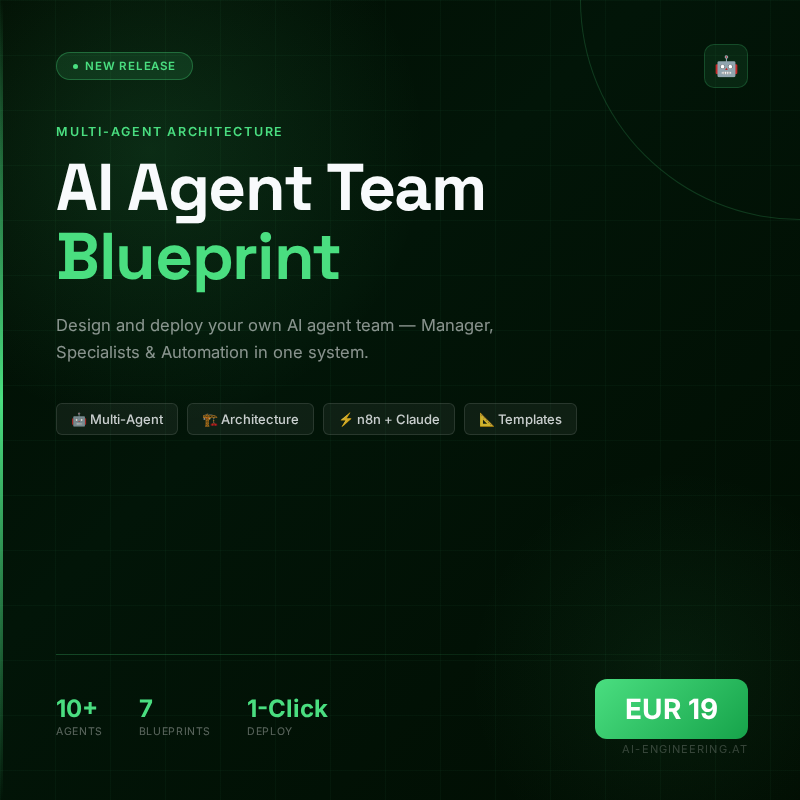
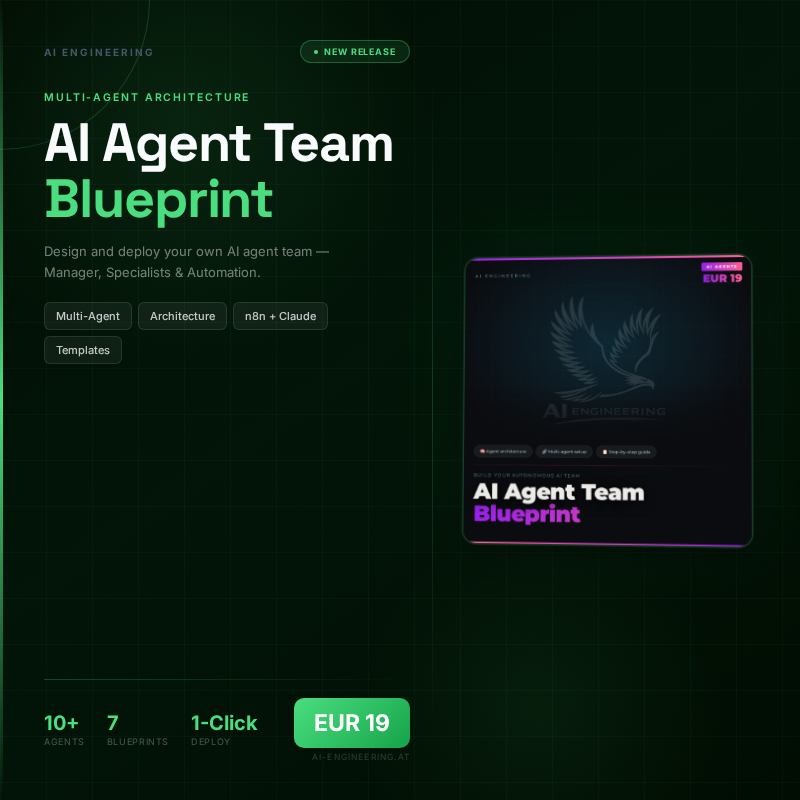
feat(covers): Add cover-generator v5 with product image showcase
- New gen_covers_v5.py: split layout (text left / product image right)
- Product thumbnail embedded as 3D floating card (290x290, perspective transform)
- Accent glow behind card, eagle watermark (opacity 0.07) in background
- All 7 covers regenerated: localai-playbook, n8n-starter-bundle,
  grafana-dashboard-pack, dsgvo-art30-bundle, homelab-mcp-bundle,
  ai-agent-blueprint, mcp-cheat-sheet
- SKILL.md updated: full v5 documentation, layout diagram, version history

diff --git a/tools/cover-generator/gen_covers_v5.py b/tools/cover-generator/gen_covers_v5.py
@@ -1,0 +1,222 @@
+#!/usr/bin/env python3
+"""
+Cover Generator v5 -- Product Image Showcase Design
+
+800x800 covers with product thumbnail as floating card on the right.
+
+Usage:
+  python3 gen_covers_v5.py                  # all 7 products
+  python3 gen_covers_v5.py localai-playbook  # single product
+  python3 gen_covers_v5.py --list            # list products + thumb status
+  python3 gen_covers_v5.py --dry-run         # HTML only, no screenshot
+"""
+import os, sys, base64, argparse
+from pathlib import Path
+from playwright.sync_api import sync_playwright
+
+OUTPUT_DIR = Path("/home/joe/cli_bridge/products/cover-templates")
+THUMB_DIR  = Path("/home/joe/cli_bridge/products/cover-templates")
+EAGLE_PATH = Path("/home/joe/Playbook01/landing-page/public/eagle-logo-inverted.png")
+
+PRODUCTS = [
+    {"id":"localai-playbook","accent":"#10B981","accent_dark":"#059669",
+     "gradient":"linear-gradient(145deg,#020817 0%,#0a1628 45%,#041a10 100%)",
+     "badge":"Bestseller 2025","eyebrow":"The Complete Guide",
+     "title":"Local <em>AI&nbsp;Stack</em><br>Playbook",
+     "subtitle":"Run your own AI infrastructure — fully private, zero cloud costs.",
+     "features":["Docker Swarm","Ollama GPU","n8n Automation","100% Private"],
+     "stats":[("180+","Pages"),("42","Diagrams"),("15+","Services")],
+     "price":"EUR 49","icon":"🧠","thumb":"thumbnail-localai-playbook.png"},
+    {"id":"n8n-starter-bundle","accent":"#FB923C","accent_dark":"#EA580C",
+     "gradient":"linear-gradient(145deg,#0c0800 0%,#1a1000 45%,#0c0800 100%)",
+     "badge":"Most Popular","eyebrow":"Workflow Automation",
+     "title":"<em>n8n</em> Starter<br>Bundle",
+     "subtitle":"30+ ready-to-use workflows for AI automation, lead gen &amp; business ops.",
+     "features":["30+ Workflows","AI Nodes","Email &amp; CRM","500+ Integrations"],
+     "stats":[("30+","Workflows"),("500+","Integrations"),("10min","Setup")],
+     "price":"EUR 29","icon":"⚡","thumb":"thumbnail-n8n-starter-bundle.png"},
+    {"id":"grafana-dashboard-pack","accent":"#60A5FA","accent_dark":"#2563EB",
+     "gradient":"linear-gradient(145deg,#020817 0%,#0a1220 45%,#020817 100%)",
+     "badge":"Pro Quality","eyebrow":"Infrastructure Monitoring",
+     "title":"Grafana<br><em>Dashboard</em>&nbsp;Pack",
+     "subtitle":"Production-ready dashboards for Docker, Node Exporter &amp; self-hosted stacks.",
+     "features":["12 Dashboards","Docker Metrics","Real-time Alerts","Import Ready"],
+     "stats":[("12","Dashboards"),("50+","Panels"),("5min","Import")],
+     "price":"EUR 39","icon":"📊","thumb":"thumbnail-grafana-dashboard-pack.png"},
+    {"id":"dsgvo-art30-bundle","accent":"#C084FC","accent_dark":"#9333EA",
+     "gradient":"linear-gradient(145deg,#080010 0%,#120020 45%,#080010 100%)",
+     "badge":"Legal Compliance","eyebrow":"DSGVO Art. 30 VVT",
+     "title":"DSGVO&nbsp;Art.30<br><em>Bundle</em>",
+     "subtitle":"Vollstaendige Vorlagen fuer das Verzeichnis von Verarbeitungstaetigkeiten.",
+     "features":["VVT Templates","Art.30 konform","DE/AT Recht","Sofort nutzbar"],
+     "stats":[("15+","Templates"),("100%","DSGVO"),("DE/AT","Recht")],
+     "price":"EUR 79","icon":"⚖","thumb":"thumbnail-dsgvo-art30-bundle.png"},
+    {"id":"homelab-mcp-bundle","accent":"#22D3EE","accent_dark":"#0891B2",
+     "gradient":"linear-gradient(145deg,#020b0d 0%,#031520 45%,#020b0d 100%)",
+     "badge":"Free · Open Source","eyebrow":"MCP Server Collection",
+     "title":"Homelab<br><em>MCP</em>&nbsp;Bundle",
+     "subtitle":"8 production-ready MCP servers: Grafana, n8n, Portainer, Proxmox &amp; more.",
+     "features":["8 MCP Servers","51 Tools","Homelab Ready","Claude Compatible"],
+     "stats":[("8","MCP Servers"),("51","Tools"),("0€","Free")],
+     "price":"FREE","icon":"🔌","thumb":"thumbnail-homelab-mcp-bundle.png"},
+    {"id":"ai-agent-blueprint","accent":"#4ADE80","accent_dark":"#16A34A",
+     "gradient":"linear-gradient(145deg,#010d02 0%,#021508 45%,#010d02 100%)",
+     "badge":"New Release","eyebrow":"Multi-Agent Architecture",
+     "title":"AI Agent Team<br><em>Blueprint</em>",
+     "subtitle":"Design and deploy your own AI agent team — Manager, Specialists &amp; Automation.",
+     "features":["Multi-Agent","Architecture","n8n + Claude","Templates"],
+     "stats":[("10+","Agents"),("7","Blueprints"),("1-Click","Deploy")],
+     "price":"EUR 19","icon":"🤖","thumb":"thumbnail-ai-agent-blueprint.png"},
+    {"id":"mcp-cheat-sheet","accent":"#22D3EE","accent_dark":"#0891B2",
+     "gradient":"linear-gradient(145deg,#020b0d 0%,#031520 45%,#020b0d 100%)",
+     "badge":"Lead Magnet · Free","eyebrow":"Quick Reference Card",
+     "title":"MCP<br><em>Cheat&nbsp;Sheet</em>",
+     "subtitle":"Everything about Model Context Protocol -- tools, resources &amp; prompts.",
+     "features":["All MCP Concepts","Tool Examples","Quick Setup","Claude Ready"],
+     "stats":[("1 Page","Reference"),("MCP","Protocol"),("Free","Download")],
+     "price":"FREE","icon":"📋","thumb":"cover-mcp-cheat-sheet.png"},
+]
+
+
+def load_b64(path):
+    if path.exists() and path.stat().st_size > 0:
+        ext  = path.suffix.lower().lstrip(".")
+        mime = "image/png" if ext == "png" else "image/jpeg"
+        with open(path,"rb") as f:
+            return f"data:{mime};base64,"+base64.b64encode(f.read()).decode()
+    return ""
+
+def css_vars(p):
+    a,d = p["accent"],p["accent_dark"]
+    return (f"--accent:{a};--accent-dark:{d};"
+            f"--a08:{a}08;--a0a:{a}0a;--a10:{a}10;--a15:{a}15;--a18:{a}18;"
+            f"--a20:{a}20;--a30:{a}30;--a35:{a}35;--a40:{a}40;--a50:{a}50;")
+
+def resolve_thumb(p):
+    for path in [THUMB_DIR/p.get("thumb",""),
+                 THUMB_DIR/f"thumbnail-{p['id']}.png",
+                 THUMB_DIR/f"{p['id']}-cover.png",
+                 THUMB_DIR/f"cover-{p['id']}.png"]:
+        b = load_b64(path)
+        if b: return b
+    return ""
+
+def build_cover(p):
+    eagle = load_b64(EAGLE_PATH)
+    thumb = resolve_thumb(p)
+    feats = "".join(f'<div class="feat">{f}</div>' for f in p["features"])
+    stats = "".join(f'<div class="stat"><div class="snum">{n}</div><div class="slbl">{l}</div></div>' for n,l in p["stats"])
+    eagle_html = (f'<div style="position:absolute;width:360px;height:360px;top:50%;right:-20px;'
+                  f'transform:translateY(-50%);opacity:0.07;z-index:4;">'
+                  f'<img src="{eagle}" style="width:100%;height:100%;object-fit:contain" alt=""></div>') if eagle else ""
+    if thumb:
+        thumb_html=(f'<div class="thumb-wrap"><div class="thumb-glow"></div>'
+                    f'<div class="thumb-card"><img src="{thumb}" class="thumb-img" alt="{p["id"]}"></div></div>')
+    else:
+        thumb_html=(f'<div class="thumb-wrap"><div class="thumb-glow"></div>'
+                    f'<div class="thumb-card thumb-fallback">'
+                    f'<div style="font-size:100px;line-height:1">{p["icon"]}</div>'
+                    f'<div style="font-size:14px;color:var(--accent);margin-top:18px;font-weight:700;'
+                    f'letter-spacing:.1em;text-transform:uppercase">{p["eyebrow"]}</div></div></div>')
+    return f"""<!DOCTYPE html><html><head><meta charset="UTF-8">
+<link href="https://fonts.googleapis.com/css2?family=Inter:wght@400;500;600;700&family=Space+Grotesk:wght@600;700;800&display=swap" rel="stylesheet">
+<style>
+*{{margin:0;padding:0;box-sizing:border-box}}:root{{{css_vars(p)}}}
+body{{width:800px;height:800px;overflow:hidden;font-family:'Inter',sans-serif}}
+.wrap{{width:800px;height:800px;background:{p['gradient']};position:relative;overflow:hidden;display:flex}}
+.orb1{{position:absolute;width:540px;height:540px;background:radial-gradient(circle,var(--a18) 0%,transparent 65%);top:-150px;left:-90px;z-index:2}}
+.orb2{{position:absolute;width:400px;height:400px;background:radial-gradient(circle,var(--a10) 0%,transparent 65%);bottom:-110px;right:60px;z-index:2}}
+.gbg{{position:absolute;inset:0;background-image:linear-gradient(var(--a0a) 1px,transparent 1px),linear-gradient(90deg,var(--a0a) 1px,transparent 1px);background-size:46px 46px;z-index:3}}
+.lline{{position:absolute;left:0;top:0;bottom:0;width:3px;background:linear-gradient(to bottom,transparent,var(--accent),transparent);z-index:6}}
+.corner{{position:absolute;top:0;left:0;width:150px;height:150px;border-right:1px solid var(--a30);border-bottom:1px solid var(--a30);border-bottom-right-radius:150px;z-index:5}}
+.vdiv{{position:absolute;left:432px;top:8%;bottom:8%;width:1px;background:linear-gradient(to bottom,transparent,var(--a35),transparent);z-index:6}}
+.left{{position:relative;z-index:10;width:432px;min-width:432px;display:flex;flex-direction:column;padding:40px 22px 38px 44px}}
+.brand-row{{display:flex;align-items:center;justify-content:space-between;margin-bottom:28px}}
+.brand-name{{font-size:10px;font-weight:700;color:#475569;letter-spacing:2px;text-transform:uppercase}}
+.badge{{display:inline-flex;align-items:center;gap:6px;background:var(--a18);border:1px solid var(--a50);border-radius:100px;padding:5px 13px;color:var(--accent);font-size:9px;font-weight:700;letter-spacing:.1em;text-transform:uppercase}}
+.bdot{{width:4px;height:4px;background:var(--accent);border-radius:50%}}
+.ey{{color:var(--accent);font-size:10.5px;font-weight:600;letter-spacing:.18em;text-transform:uppercase;margin-bottom:11px}}
+.title{{font-family:'Space Grotesk',sans-serif;font-size:54px;font-weight:800;line-height:1.04;letter-spacing:-.02em;color:#F8FAFC;margin-bottom:14px}}
+.title em{{color:var(--accent);font-style:normal}}
+.sub{{font-size:13px;color:rgba(248,250,252,.46);line-height:1.58;margin-bottom:20px;max-width:340px}}
+.feats{{display:flex;gap:6px;flex-wrap:wrap;margin-bottom:auto}}
+.feat{{background:rgba(255,255,255,.055);border:1px solid rgba(255,255,255,.10);border-radius:6px;padding:6px 11px;color:rgba(248,250,252,.78);font-size:11px;font-weight:500}}
+.div{{height:1px;background:linear-gradient(to right,var(--a40),transparent);margin:18px 0}}
+.bot{{display:flex;align-items:center;justify-content:space-between}}
+.stats{{display:flex;gap:22px}}
+.snum{{font-size:20px;font-weight:700;color:var(--accent);line-height:1}}
+.slbl{{font-size:9px;color:rgba(255,255,255,.28);margin-top:3px;text-transform:uppercase;letter-spacing:.07em}}
+.price{{background:linear-gradient(135deg,var(--accent),var(--accent-dark));border-radius:10px;padding:11px 20px;font-size:23px;font-weight:800;color:#fff}}
+.brand-url{{font-size:8.5px;color:rgba(255,255,255,.18);letter-spacing:.14em;text-transform:uppercase;margin-top:4px;text-align:right}}
+.right{{position:relative;z-index:10;flex:1;display:flex;align-items:center;justify-content:center;padding:20px 32px 20px 12px}}
+.thumb-wrap{{position:relative;display:flex;align-items:center;justify-content:center}}
+.thumb-card{{width:290px;height:290px;border-radius:14px;border:1px solid var(--a40);overflow:hidden;box-shadow:0 0 0 1px var(--a20),0 8px 40px rgba(0,0,0,.65),0 0 70px var(--a18);transform:perspective(900px) rotateY(-5deg) rotateX(2deg);background:#080808;display:flex;align-items:center;justify-content:center}}
+.thumb-img{{width:100%;height:100%;object-fit:cover;display:block}}
+.thumb-fallback{{flex-direction:column;background:var(--a08)}}
+.thumb-glow{{position:absolute;width:260px;height:260px;background:radial-gradient(ellipse,var(--a30) 0%,transparent 70%);z-index:-1;filter:blur(28px)}}
+</style></head><body><div class="wrap">
+<div class="orb1"></div><div class="orb2"></div><div class="gbg"></div>
+{eagle_html}
+<div class="lline"></div><div class="corner"></div><div class="vdiv"></div>
+<div class="left">
+  <div class="brand-row"><div class="brand-name">AI Engineering</div><div class="badge"><span class="bdot"></span>{p['badge']}</div></div>
+  <div class="ey">{p['eyebrow']}</div>
+  <div class="title">{p['title']}</div>
+  <div class="sub">{p['subtitle']}</div>
+  <div class="feats">{feats}</div>
+  <div class="div"></div>
+  <div class="bot"><div class="stats">{stats}</div><div><div class="price">{p['price']}</div><div class="brand-url">ai-engineering.at</div></div></div>
+</div>
+<div class="right">{thumb_html}</div>
+</div></body></html>"""
+
+
+def render(p, out_dir, dry_run=False):
+    html = build_cover(p)
+    hp = f"/tmp/cv5-{p['id']}.html"
+    op = out_dir / f"{p['id']}-cover.png"
+    with open(hp,"w",encoding="utf-8") as fh: fh.write(html)
+    if dry_run:
+        print(f"  DRY  {p['id']}  -> {hp}")
+        return op
+    with sync_playwright() as pw:
+        br = pw.chromium.launch(args=["--no-sandbox","--disable-setuid-sandbox","--disable-web-security","--disable-features=VizDisplayCompositor"])
+        pg = br.new_page(viewport={"width":800,"height":800})
+        pg.goto(f"file://{hp}")
+        pg.wait_for_timeout(3000)
+        pg.screenshot(path=str(op),clip={"x":0,"y":0,"width":800,"height":800})
+        br.close()
+    print(f"  ok  {p['id']:<32}  {os.path.getsize(op)//1024:>4}KB  ->  {op.name}")
+    return op
+
+
+def main():
+    parser = argparse.ArgumentParser(description="Cover Generator v5 -- Product Image Showcase 800x800")
+    parser.add_argument("products",nargs="*",help="Product IDs (default: all)")
+    parser.add_argument("--out",default=str(OUTPUT_DIR))
+    parser.add_argument("--list",action="store_true")
+    parser.add_argument("--dry-run",action="store_true")
+    args = parser.parse_args()
+    if args.list:
+        print(f"\n{'ID':<34} {'Price':<10} Accent    Thumb")
+        print("-"*72)
+        for p in PRODUCTS:
+            tp = THUMB_DIR/p.get("thumb",f"thumbnail-{p['id']}.png")
+            ok = "OK" if tp.exists() else "!!"
+            print(f"  [{ok}] {p['id']:<32} {p['price']:<10} {p['accent']}  {p.get('thumb','')}")
+        return
+    ids = args.products or None
+    products = [p for p in PRODUCTS if ids is None or p["id"] in ids]
+    if not products:
+        print(f"No products matched: {ids}"); sys.exit(1)
+    out_dir = Path(args.out)
+    out_dir.mkdir(parents=True,exist_ok=True)
+    print(f"\nCover Generator v5  --  {len(products)} Produkt(e)  [800x800 + product image]\n")
+    ok_count = 0
+    for p in products:
+        try: render(p,out_dir,dry_run=args.dry_run); ok_count+=1
+        except Exception as e: print(f"  ERROR  {p['id']}: {e}")
+    print(f"\n{ok_count}/{len(products)} Cover fertig  ->  {out_dir}")
+
+if __name__ == "__main__":
+    main()

diff --git a/tools/cover-generator/SKILL.md b/tools/cover-generator/SKILL.md
@@ -1,66 +1,131 @@
-# Skill: cover-generator (v3)
+# Skill: cover-generator (v5)
 
 ## Zweck
 Generiert professionelle Gumroad/Stripe Cover-Images (800x800 PNG) via Playwright + Google Fonts.
-- **v3** (2026-03-05): Space Grotesk Typografie, Stats-Bar, Badge+Icon, Feature Pills, Preisbox
+- **v5** (2026-03-05): Produkt-Thumbnail als floating Card rechts + Space Grotesk Typografie
+- **Layout**: Links=Text (Badge, Title, Features, Stats, Preis) | Rechts=Produktbild als 3D-Card
 - **Renderer**: Playwright Chromium Headless
 - **Fonts**: Inter + Space Grotesk via Google Fonts
 
 ## Usage
 
 ```bash
-# Alle 7 Cover generieren
-python3 ~/cli_bridge/tools/cover-generator/gen_covers_v3.py
+# Alle 7 Cover generieren (Standard-Output: products/cover-templates/)
+python3 ~/cli_bridge/tools/cover-generator/gen_covers_v5.py
 
 # Einzelne Cover
-python3 ~/cli_bridge/tools/cover-generator/gen_covers_v3.py localai-playbook n8n-starter-bundle
+python3 ~/cli_bridge/tools/cover-generator/gen_covers_v5.py localai-playbook
+python3 ~/cli_bridge/tools/cover-generator/gen_covers_v5.py n8n-starter-bundle dsgvo-art30-bundle
 
-# Produktliste
-python3 -c "import sys; sys.path.insert(0,'~/cli_bridge/tools/cover-generator'); from gen_covers_v3 import PRODUCTS; [print(p['id']) for p in PRODUCTS]"
+# Produktliste + Thumbnail-Status
+python3 ~/cli_bridge/tools/cover-generator/gen_covers_v5.py --list
+
+# HTML generieren ohne Screenshot (Debug)
+python3 ~/cli_bridge/tools/cover-generator/gen_covers_v5.py --dry-run
+
+# Custom Output-Verzeichnis
+python3 ~/cli_bridge/tools/cover-generator/gen_covers_v5.py --out /tmp/covers-test
 ```
 
 ## Produkt-IDs
-| ID | Produkt | Accent | Preis |
-|----|---------|--------|-------|
-| `localai-playbook` | Local AI Stack Playbook | `#10B981` Emerald | EUR 49 |
-| `n8n-starter-bundle` | n8n Starter Bundle | `#FB923C` Orange | EUR 29 |
-| `grafana-dashboard-pack` | Grafana Dashboard Pack | `#60A5FA` Blue | EUR 39 |
-| `dsgvo-art30-bundle` | DSGVO Art.30 Bundle | `#C084FC` Purple | EUR 79 |
-| `homelab-mcp-bundle` | Homelab MCP Bundle | `#22D3EE` Cyan | FREE |
-| `ai-agent-blueprint` | AI Agent Team Blueprint | `#4ADE80` Green | EUR 19 |
-| `mcp-cheat-sheet` | MCP Cheat Sheet | `#22D3EE` Cyan | FREE |
+| ID | Produkt | Accent | Preis | Thumbnail |
+|----|---------|--------|-------|-----------|
+| `localai-playbook` | Local AI Stack Playbook | `#10B981` Emerald | EUR 49 | thumbnail-localai-playbook.png |
+| `n8n-starter-bundle` | n8n Starter Bundle | `#FB923C` Orange | EUR 29 | thumbnail-n8n-starter-bundle.png |
+| `grafana-dashboard-pack` | Grafana Dashboard Pack | `#60A5FA` Blue | EUR 39 | thumbnail-grafana-dashboard-pack.png |
+| `dsgvo-art30-bundle` | DSGVO Art.30 Bundle | `#C084FC` Purple | EUR 79 | thumbnail-dsgvo-art30-bundle.png |
+| `homelab-mcp-bundle` | Homelab MCP Bundle | `#22D3EE` Cyan | FREE | thumbnail-homelab-mcp-bundle.png |
+| `ai-agent-blueprint` | AI Agent Team Blueprint | `#4ADE80` Green | EUR 19 | thumbnail-ai-agent-blueprint.png |
+| `mcp-cheat-sheet` | MCP Cheat Sheet | `#22D3EE` Cyan | FREE | cover-mcp-cheat-sheet.png (kein thumbnail) |
 
-## Design-Elemente (v3)
-- **Badge** (oben links): "Bestseller 2025", "Most Popular" etc. + Accent-Dot
-- **Icon** (oben rechts): Emoji in Accent-farbiger Box
-- **Eyebrow**: Kategorie in UPPERCASE, Accent-Farbe
-- **Title**: 66px Space Grotesk, em-Tags in Accent-Farbe
-- **Subtitle**: 16.5px Inter, 55% Opacity
-- **Feature Pills**: Emoji + Text, subtile Border
-- **Stats-Bar**: 3 Metriken (Zahl + Label) + Preis-Button
+## Design-System (v5)
+
+### Layout 800x800
+```
+┌─────────────────────────────────────────────┬──────────────────────────┐
+│ AI ENGINEERING     [BADGE: Bestseller 2025] │                          │
+│                                             │                          │
+│ EYEBROW TEXT                                │   ┌──────────────────┐   │
+│                                             │   │                  │   │
+│ Product <em>Title</em>                      │   │  Product Image   │   │
+│ Second Line                                 │   │  (290x290 px)    │   │
+│                                             │   │  floating card   │   │
+│ Subtitle text here...                       │   │  3D perspective  │   │
+│                                             │   └──────────────────┘   │
+│ [Feature 1] [Feature 2] [Feature 3]        │                          │
+│ [Feature 4]                                 │                          │
+│ ──────────────────────                      │                          │
+│ 180+ Pages  42 Diagrams  15+ Services  [EUR 49] │                     │
+└─────────────────────────────────────────────┴──────────────────────────┘
+```
+
+### Design-Elemente
+- **Hintergrund**: Produkt-spezifischer Dark Gradient + Subtiles Grid (46px)
+- **Dekorativ**: Orb Glows (oben-links + unten-rechts) + Accent-Linie links + Corner-Arc
+- **Eagle Watermark**: 360px, opacity 0.07, hinter Produktbild (Eagle-inverted.png von Playbook01)
+- **Left Column** (432px):
+  - Brand-Row: "AI ENGINEERING" (10px, uppercase) + Badge-Pill (accent)
+  - Eyebrow: Kategorie (10.5px, uppercase, letter-spacing)
+  - Title: 54px Space Grotesk 800, `<em>` in Accent-Farbe
+  - Subtitle: 13px Inter, 46% opacity
+  - Feature Pills: Subtile Border, semi-transparent BG
+  - Stats: 3 Metriken (number + label)
+  - Price: Gradient-Button (accent → accent-dark)
+- **Right Column** (368px):
+  - Thumb Card: 290x290px, border-radius 14px
+  - 3D Transform: `rotateY(-5deg) rotateX(2deg)` (perspective 900px)
+  - Shadow: Box-shadow mit Accent-Glow
+  - Glow: Radial blur 28px unter dem Card
+  - Fallback: Icon + Eyebrow text wenn kein Thumbnail vorhanden
+
+### Farben je Produkt
+| Produkt | Accent | Gradient |
+|---------|--------|----------|
+| localai-playbook | `#10B981` Emerald | Dark Blue → Teal-ish |
+| n8n-starter-bundle | `#FB923C` Orange | Dark Brown → Orange-ish |
+| grafana-dashboard-pack | `#60A5FA` Blue | Dark Blue → Mid Blue |
+| dsgvo-art30-bundle | `#C084FC` Purple | Dark Purple → Deep Violet |
+| homelab-mcp-bundle | `#22D3EE` Cyan | Dark Teal → Dark Navy |
+| ai-agent-blueprint | `#4ADE80` Green | Near-Black → Dark Green |
+| mcp-cheat-sheet | `#22D3EE` Cyan | Dark Teal → Dark Navy |
 
 ## Dateipfade
-- **Script**: `tools/cover-generator/gen_covers_v3.py`
+- **Script v5**: `tools/cover-generator/gen_covers_v5.py`
+- **Script v4**: `tools/cover-generator/gen_covers_v4.py` (Multiformat: cover, ig-post, fb-post, etc.)
 - **Output**: `products/cover-templates/{id}-cover.png`
-- **Temp HTML**: `/tmp/cv3-{id}.html` (für Debugging)
+- **Thumbnails**: `products/cover-templates/thumbnail-{id}.png`
+- **Temp HTML**: `/tmp/cv5-{id}.html` (fuer Debugging)
+- **Eagle Logo**: `Playbook01/landing-page/public/eagle-logo-inverted.png`
 
-## Neues Produkt hinzufügen
-Eintrag in `PRODUCTS` Liste in `gen_covers_v3.py` ergänzen:
+## Neues Produkt hinzufuegen
+Eintrag in `PRODUCTS` Liste in `gen_covers_v5.py` ergaenzen:
 ```python
 {
     "id": "mein-produkt",
     "accent": "#FF6B6B", "accent_dark": "#CC0000",
-    "gradient": "linear-gradient(135deg, #0d0000 0%, #1a0000 40%, #0d0000 100%)",
+    "gradient": "linear-gradient(145deg,#0d0000 0%,#1a0000 45%,#0d0000 100%)",
     "badge": "New", "eyebrow": "Kategorie",
     "title": "Mein <em>Produkt</em>",
-    "subtitle": "Kurze Beschreibung",
-    "features": ["🔥 Feature 1", "⚡ Feature 2"],
-    "stats": [("10+","Seiten"),("Free","Tier")],
+    "subtitle": "Kurze Beschreibung des Produkts.",
+    "features": ["Feature 1", "Feature 2", "Feature 3", "Feature 4"],
+    "stats": [("10+", "Seiten"), ("Free", "Tier"), ("1-Click", "Setup")],
     "price": "EUR 99", "icon": "🔥",
+    "thumb": "thumbnail-mein-produkt.png",  # PNG muss existieren!
 }
 ```
+Dann neues Thumbnail in `products/cover-templates/thumbnail-mein-produkt.png` ablegen.
 
-## KI-Bildgenerierung (Future)
-- Gemini Imagen 4.0 verfügbar aber braucht Paid Plan (`imagen-4.0-generate-001`)
-- gemini-2.5-flash-image: Free Tier Quota erschöpft
-- Alternative: Stability AI API Key beschaffen für echte AI-Backgrounds
+## Version History
+| Version | Datum | Feature |
+|---------|-------|---------|
+| v5 | 2026-03-05 | Produktbild als floating Card (rechte Haelfte), Split-Layout |
+| v4 | 2026-03-05 | Multi-Format (8 Formate), Eagle-Watermark, Space Grotesk |
+| v3 | 2026-03-05 | Stats-Bar, Badge+Icon, Feature Pills, Preisbox |
+| v2 | 2026-03-04 | 800x800, Dark Gradient, Eagle-BG |
+
+## Abhaengigkeiten
+```bash
+pip install playwright
+playwright install chromium
+```
+Google Fonts werden live von fonts.googleapis.com geladen (Internet erforderlich beim Render).
